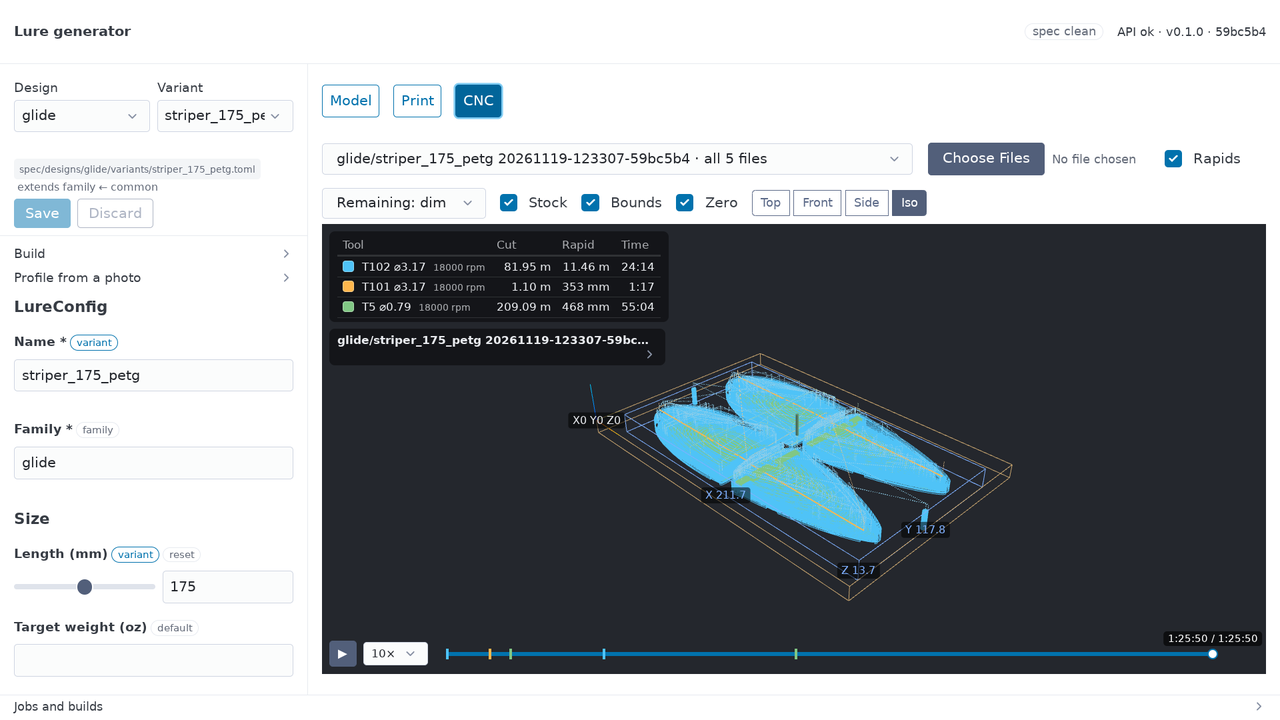
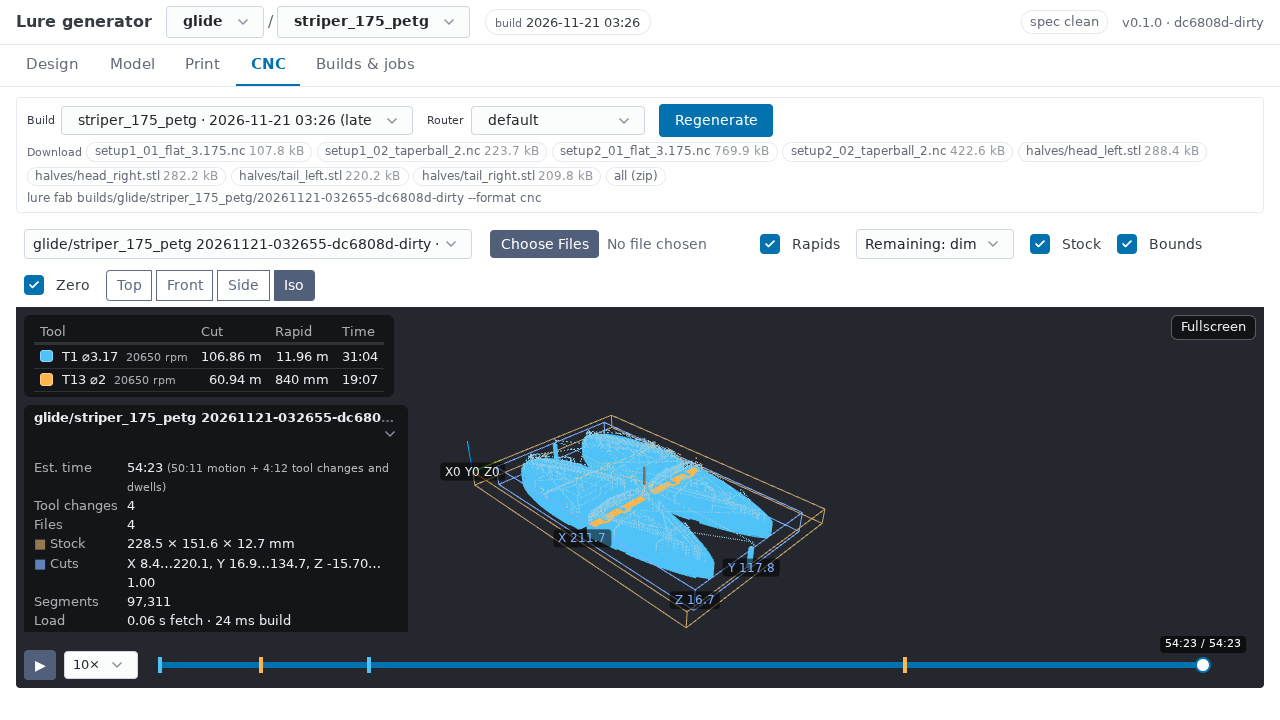
docs: README screenshots and text for the paged layout (#127)
Claude-Session: https://claude.ai/code/session_01Pi6uuKsjUH4zQG1t8BxEiB

diff --git a/README.md b/README.md
@@ -17,7 +17,7 @@ Hobby project. The plan and progress live in the GitHub issues: epic #1 (pipelin
 | Check | `lure check <build>` | Re-runs the DFM rules on an existing build. |
 | Print | `lure fab <build> --format print` | Upright sections sliced with OrcaSlicer for the U1: tree supports with a PLA/PETG interface under the belly, thumbnails, optional pause. |
 | CNC | `lure fab <build> --format cnc` | Two glued halves: glue-face pockets, wire groove and flip pins (setup 1), then 3D roughing, 1/32" finishing and cut-out with tabs (setup 2). One `.nc` per tool by default (BitSetter tool changes), a setup sheet and a cut simulation. |
-| Web app | `lure serve` | Config editor, 3D model with section planes, print and CNC toolpath previews, build history and compare, downloads, live jobs. |
+| Web app | `lure serve` | Parameter editor in tabs, 3D model with section planes, print and CNC generation with toolpath previews, build history and compare, downloads, live jobs. |
 
 Sample variant (`striper_175_petg`, PETG print): 74 g (2.6 oz), slow sink at 1.04 g/cm³, CG within 0.5 mm of CB fore/aft, about 2 h 45 min to print both sections.
 
@@ -89,21 +89,27 @@ cd web && npm ci && npm run dev                # Vite on :5173, proxies /api
 
 Deployment is one Docker image with compose; see [docs/deploy.md](docs/deploy.md). The app has no authentication, so keep it on the LAN.
 
-**Model:** config editor on the left, the built lure with a live section plane, and the balance report.
+The app has five pages: **Design**, **Model**, **Print**, **CNC** and **Builds & jobs**. The header picks the design and variant and shows the current build. The layout works from a phone to a large monitor, and each preview has a fullscreen button.
 
-![Model tab: config editor, 3D model with an X section through the joint, section stats and balance report](docs/images/model.png)
+**Design:** the variant's parameters in tabs (Shape & size, Weight & balance, Hardware, Print, CNC, Advanced). Each tab shows the few values you tune per lure; expert settings sit in collapsed "More …" sections. Lists like hardware, air pockets, sink bands and CAM operations are editable tables. Errors show inline as you type; Save writes the variant TOML (comments kept) and Build runs `lure build`.
 
-**Print preview:** sliced G-code by feature, with layer and move scrubbing, the prime tower and the pause plane.
+![Design page: Shape & size tab with size, profile, joint and material cards, and the Save / Build bar](docs/images/design.png)
 
-![Print tab: head section sliced upright with belly supports, colored by feature](docs/images/print.png)
+**Model:** the built lure with a live section plane, and the balance report.
 
-**CNC preview:** all per-tool files of a build as one job, colored by tool, with stock, bounds, work zero and a time scrubber.
+![Model page: 3D model with an X section through the joint, section stats and balance report](docs/images/model.png)
 
-![CNC tab: four halves on one blank with roughing, groove and finishing toolpaths](docs/images/cnc.png)
+**Print:** generate print G-code for the current build (`lure fab --format print`), download it, and preview it by feature with layer and move scrubbing, the prime tower and the pause plane.
 
-**Jobs and builds:** build history with balance numbers and verdicts, compare, and downloads (STEP, STL, 3MF, GLB, G-code, NC, zip).
+![Print page: fab bar with downloads above the head section sliced upright with belly supports, colored by feature](docs/images/print.png)
 
-![Jobs and builds drawer: two builds with their mass, density, CG/CB offsets and verdicts, and the download list](docs/images/drawer.png)
+**CNC:** generate the CNC job (`lure fab --format cnc`), download the per-tool files, and preview them as one job, colored by tool, with stock, bounds, work zero and a time scrubber.
+
+![CNC page: fab bar with downloads above four halves on one blank with roughing and finishing toolpaths](docs/images/cnc.png)
+
+**Builds & jobs:** build history with balance numbers and verdicts, compare, downloads (STEP, STL, 3MF, GLB, G-code, NC, zip), and the jobs with live logs.
+
+![Builds and jobs page: two builds with their mass, density, CG/CB offsets and verdicts, the download list and the job list](docs/images/builds.png)
 
 ## Status
 

diff --git a/CLAUDE.md b/CLAUDE.md
@@ -28,7 +28,7 @@ A local web app (`lure serve`) edits configs, shows the model with sections, pre
 - **Progress protocol:** with `--progress json` (env `LUREGEN_PROGRESS=1`), commands print `@@progress {"stage", "frac", "msg"}` and `@@result {…}` lines to stderr through `luregen.progress.emit(...)` / `result(...)`. Both are no-ops otherwise, so call them unconditionally.
 - **API:** `luregen.api.app.create_app(root)` is the FastAPI factory. Add routes as an `APIRouter` included under `/api` before the static mount (the SPA at `/` is mounted last). Import FastAPI only under `luregen/api/`; the CLI must work without the `web` group.
 - **Types:** after changing the API, run `uv run lure serve --dump-openapi web/openapi.json` and `npm run gen:api` and commit both (CI diff-checks them).
-- **Frontend:** Vite + Svelte 5 + TypeScript (no SvelteKit), Pico CSS, @sjsf/form for schema-driven forms, three-cad-viewer for the model, our own three.js renderers for G-code. `three` has exactly one version, equal to three-cad-viewer's, and is deduped (`resolve.dedupe` and an npm `overrides` entry).
+- **Frontend:** Vite + Svelte 5 + TypeScript (no SvelteKit), Pico CSS, our own grouped parameter editor driven by the form schema's `x-*` hints (tabs, basic/advanced, tables; see `luregen.api.formschema` R10–R12; @sjsf/form stays installed but is no longer used), three-cad-viewer for the model, our own three.js renderers for G-code. `three` has exactly one version, equal to three-cad-viewer's, and is deduped (`resolve.dedupe` and an npm `overrides` entry).
 - **npm dependencies are pinned exactly, like Python ones,** and only in W0-style infra PRs: feature branches never touch `web/package.json` or `web/package-lock.json`.
 - Viewer design takes ideas from OrcaSlicer, Fluidd, Mainsail, OctoPrint and gSender. **Reimplement; never copy code.**
 - **Layout:** `web/` has `src/` (App, `lib/` with `client.ts` and the generated `api.d.ts`), `openapi.json`, `vite.config.ts`. `web/dist/` is the build output that `lure serve` serves; `uploads/` holds user uploads (both gitignored).
